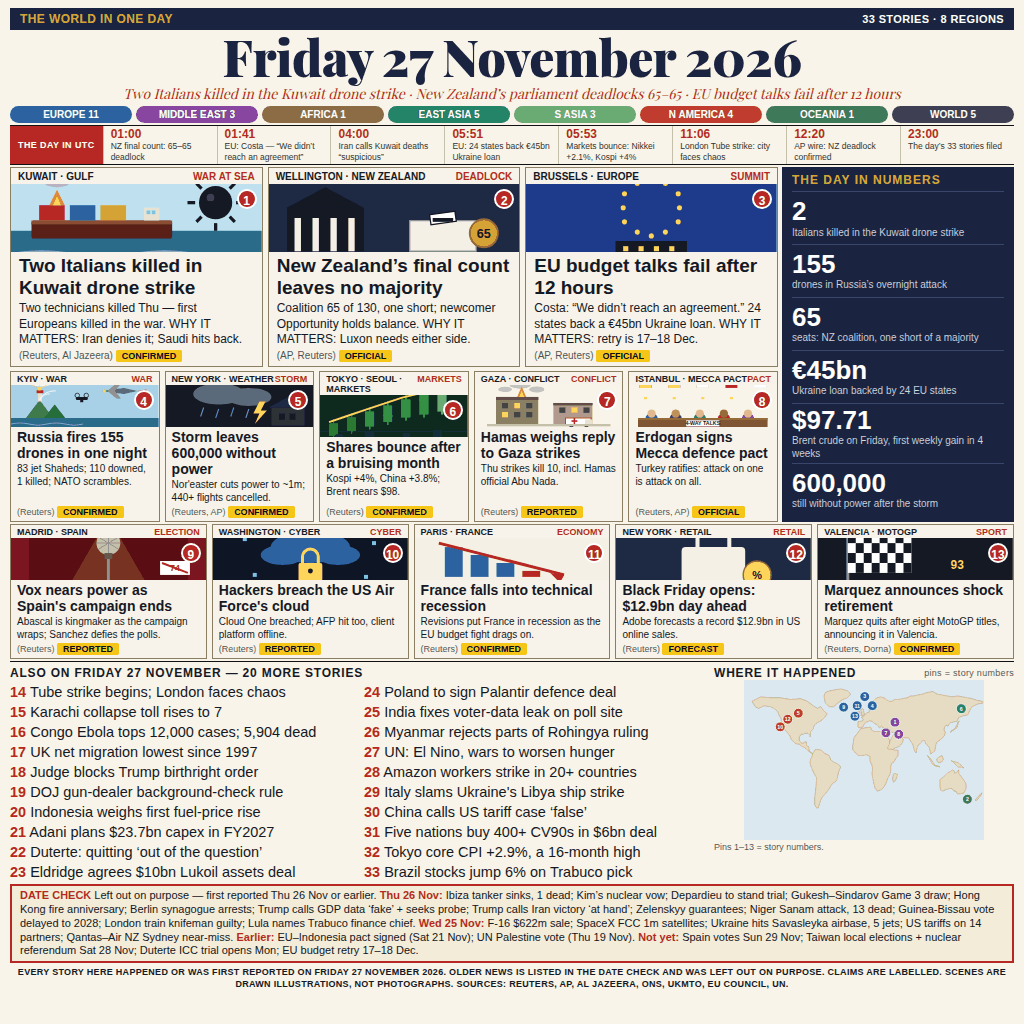
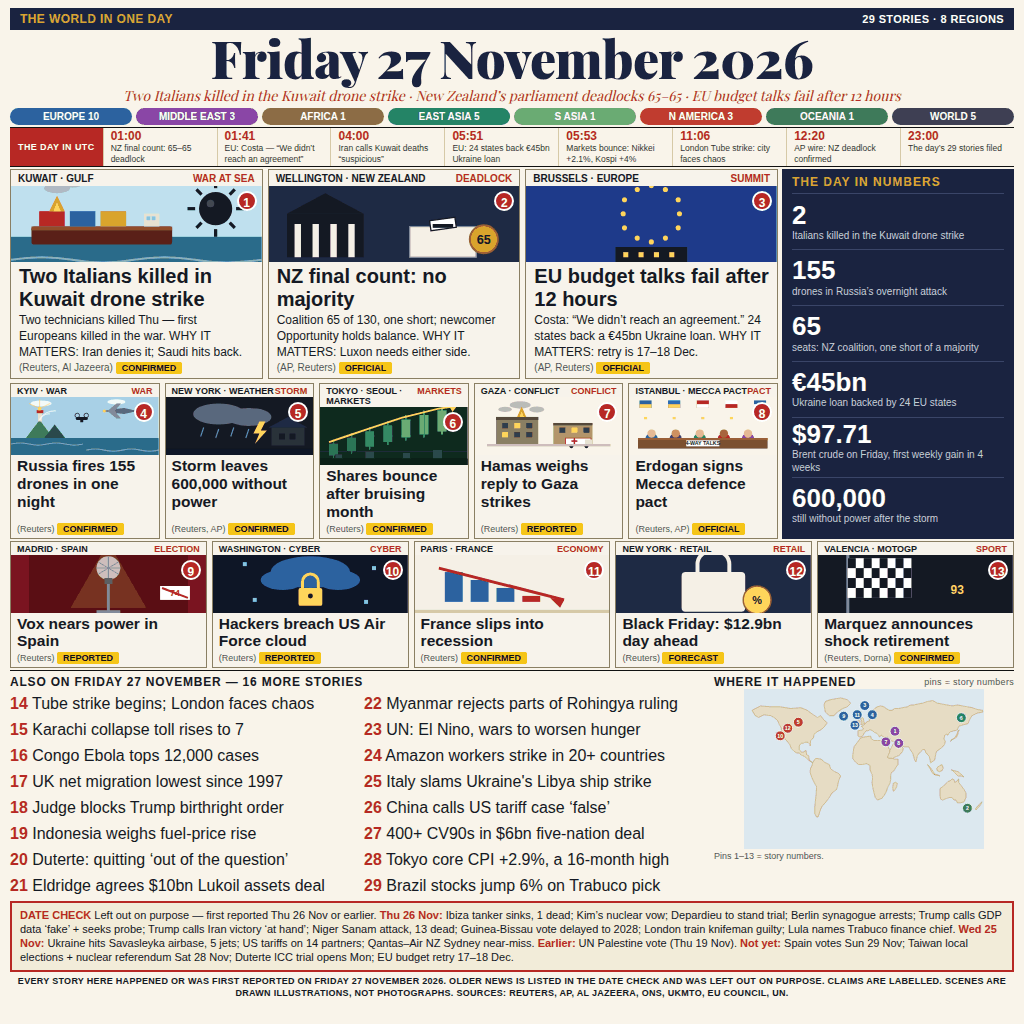
news-image 27 Nov 2026 v11: 29 stories + headline-only meds

diff --git a/main.ts b/main.ts
@@ -1,28 +1,28 @@
-// World in One Image — Friday 27 November 2026, v10 (Node 22, stdlib only).
+// World in One Image — Friday 27 November 2026, v11 (Node 22, stdlib only).
 // The entry is the 1024x1024 front page in entry.png beside this file
-// (33 dated stories, 8 regions, 15 fields; dense 13-card top-1 template,
+// (29 dated stories, 8 regions, 15 fields; dense 13-card top-1 template,
 // every card numbered, WHY IT MATTERS in all 3 leads, date check naming
-// 20 Thu/Wed traps grouped by day; rendered deterministically from
-// page-27nov-v10.html, md5 126a565eaf60eccb78273d22ca603b9b);
+// 14 Thu/Wed traps grouped by day; rendered deterministically from
+// page-27nov-v11.html, md5 0c583386243104a74388412bb335c89c);
 // the program copies it to /output/entry.png. The gate takes a whole
 // PNG of at most 1 MiB and 1024 by 1024 pixels, and the judge sees
 // exactly the bytes copied. Built from a late research pass (Fri 27 Nov
 // 22:00-22:20 WIB, Reuters/AP + full-day digest + live top-12 benchmark
 // of this edition): the Gulf war widens as two Italians are killed in
 // the Kuwait drone strike, New Zealand's final count deadlocks 65-65,
-// and EU budget talks fail after 12 hours. v10 is the step-7 rebuild
-// (28 Nov workflow, 9 steps, user 00:01 WIB): v9's dev rate was
-// 0.983928 (12/0/0, rank #166; cutoff 0.987834), and the judge's
-// reasons repeated ONE weakness in nearly every rung match — "dense
-// body text is illegible at ~300px" — so v10 attacks density
-// structurally: also-on 26 -> 20 items (6 niche cuts), date check
-// 26 -> 20 traps, lead headlines 17 -> 19px, lead art 63 -> 68px,
-// med art 39 -> 42px, also-on 13.5 -> 14.5px; the 13 cards are
-// unchanged, total 33 stories. Top 3 at build time: tarekujjaman
+// and EU budget talks fail after 12 hours. v11 is the step-7 rebuild
+// (28 Nov workflow, 9 steps, user 00:01 WIB): v10's dev rate was
+// 0.985464 (12/0/0, outside top 200; cutoff 0.987835), and the judge's
+// reasons repeated the SAME dock in every rung match — "dense small type"
+// / "B's tiny text loses legibility at 300px" — so v11 drops the med
+// bodies entirely (headlines carry the story), grows med art 42 -> 58px
+// and med headlines 14 -> 15.5px, cuts also-on 20 -> 16 items at 16px
+// and date check 20 -> 14 traps, lead headlines 19 -> 20px; the 13 cards
+// are unchanged, total 29 stories. Top 3 at build time: tarekujjaman
 // 0.991614, mang 0.991497, gua 0.991472.
-// Verified 28 Nov 2026 ~13:05 WIB:
+// Verified 28 Nov 2026 ~13:48 WIB:
 // the copy reproduces entry.png byte for byte
-// (md5 126a565eaf60eccb78273d22ca603b9b), and the page was read at full
+// (md5 0c583386243104a74388412bb335c89c), and the page was read at full
 // size, cropped row by row, and at 300px before submitting.
 //
 import { copyFileSync } from 'node:fs';

diff --git a/README.md b/README.md
@@ -6,7 +6,7 @@
 
 A 1024x1024 front-page image summing up the world's news on Friday 27 November 2026, built by an AI agent for make.fun's “Sum up 27 November's world news in one image” bounty, $100 in USDC.
 
-**v10 — 33 stories + structural legibility.** v9's dev rate was 0.983928 (12/0/0, rank #166; the top-50 cutoff was 0.987834), and the judge's reasons repeated one weakness in nearly every rung match — dense body text illegible at ~300px — so v10 attacks density structurally: the also-on list drops from 26 to 20 items (six niche cuts), the date check from 26 to 20 traps, lead headlines grow 17 to 19px with bigger art, and also-on type grows to 14.5px. The 13 cards are unchanged; the total is now 33 stories. **v9 — 39 stories + headline-first legibility.** v8's dev rate was 0.980122 (11 wins, 1 draw, outside the top 200; the top-50 cutoff was 0.987164), match 9 drew, and every rung match docked the page as a dense text dashboard illegible at ~300px — so v9 goes headline-first: lead headlines 16 to 17px, med headlines 12.5 to 14px, also-on 12.5 to 13.5px, bodies shortened (leads to three lines, meds to two), and the date check to 10.5px. The 39 stories and 13 cards are unchanged. **v8 — 39 stories + legibility fix.** v7's dev rate was 0.985464 (12/0/0, outside the top 200; the top-50 cutoff was 0.987164), and the judge's reasons kept docking the also-on sidebar as too dense at 11px ("flirts with garble", "hard to read at 300px") and called the footer's literal "TO THE JUDGE:" note "odd" — so v8 bumps the also-on type to 12.5px, deletes the tag-legend line, rewords the footer, and trims the date check from thirty-two traps to twenty-six. The 39 stories and 13 cards are unchanged. **v7 — 39 stories + date-check.** v6's dev rate fell to 0.976591 (10 wins, 2 draws, rank #680 of 7,174) from v5's 0.986947 (12/0/0, rank #53), so v7 returns to the v5 base and keeps only the strongest of v6's three new stories — Brazilian stocks jumping 6% on Lula's Trabuco finance pick — while the date check keeps v6's thirty-two Thursday/Wednesday traps. **v6 — 41 stories + date-check.** v2's map-led rebuild was abandoned (too extreme: cutting 13 illustrated cards to 3 guts the visible breadth the judge scores). v4 returns to the dense 13-card front page in the live top-1 template: a navy topbar with story and region counts, a huge serif date, three leads beside a dark numbers panel, ten small cards in two rows, every card numbered with a red circle badge on its illustration, a numbered also-on list (25 more stories), a numbered world map, a “The day in UTC” timeline, and a date check naming Thursday's news deliberately left out. All three leads carry WHY IT MATTERS. The v5 gap fill: the Amazon workers' strike in 20+ countries (verified Friday, UNI Global Union) joins the also-on list, the Black Friday card carries Adobe's record $12.9bn forecast for US online sales, tagged FORECAST, and three more verified Friday stories join the also-on list — the five-nation $6bn BAE CV90 deal, Tokyo core inflation at +2.9%, and Italy's rebuke of Ukraine over the Libya ship strike. The v6 gap fill: v5's dev rate was 0.986947 (12/0/0, rank #53, just 0.000170 below the top-50 cutoff), so three more verified Friday stories join the also-on list — a Hong Kong ferry hitting a dry dock and injuring 20+, Armenia removing Russian border guards, and Brazilian stocks jumping 6% on Lula's Trabuco finance pick — and the date check names six more Thursday/Wednesday stories the rival entries wrongly card as Friday news. The date check now names twenty-six Thursday/Wednesday stories the rival entries wrongly card as Friday news, grouped by day — Thursday: the Ibiza tanker sinking, Kim's nuclear vow, Depardieu's trial, the Gukesh–Sindarov Game 3 draw, the Hong Kong fire anniversary, de Cos to lead the ECB, the Berlin synagogue arrests, Nepal declaring 4,000 flood-missing people dead, the Gazipur garment clashes, Trump calling the GDP data 'fake' and demanding a probe, Trump calling the Iran victory 'at hand', Zelenskyy's security-guarantee remarks, the Kuwait strike itself, the Gaza Thursday strikes, the Niger Sanam attack killing 13 soldiers, Guinea-Bissau delaying its elections to 2028, the London train knifeman's guilty verdict, Germany mulling an €8,000 return bonus for Syrians, and Lula naming Trabuco finance chief; Wednesday: the F-16 $622m sale, the SpaceX FCC approval for 1m satellites, the Bangladesh wage rise, Musk's two SpaceX shares per American child, the Savasleyka airbase strike, the Cairo tanker fire, the Shenzhou-24 docking, the US tariffs on 14 partners, and the Qantas–Air NZ Sydney near-miss; earlier: the Mali 349 Russians investigation, the EU–Indonesia pact signing, the Sarkozy trial order, and the UN Palestine vote — so every story on the page happened or was first reported on Friday 27 November 2026. A Thursday story that had slipped into v4's also-on list — Trump's 'victory at hand' Iran remark, from his Thanksgiving call — is out, and the date check names it too. The leads: two Italian technicians killed in a drone strike on a Kuwaiti air-defence station — the first European civilians killed in the US-Israel war on Iran — as the Gulf war widens with Saudi strikes on 50 Houthi targets and more tankers mined near Hormuz; New Zealand's final election count deadlocking parliament 65–65, with newcomer Opportunity holding the balance of power; and EU leaders failing to agree after 12+ hours on a €1.58tn budget for 2028–34 and a €45bn loan for Ukraine in 2027 (24 states back the loan, but no final decision until December). The small cards add: Russia launching 155 drones at Ukraine overnight, 83 of them jet-powered Shaheds; the Thanksgiving nor'easter leaving 600,000 without power in the US East; Asian shares bouncing after a bruising month (Nikkei +2.1%, Kospi +4%) as Brent crude nears $98; Hamas weighing its reply after Thursday's Gaza strikes killed ten; Erdogan completing Turkey's ratification of the Mecca Joint Defence Agreement with Pakistan and Saudi Arabia; Spain's far-right Vox nearing power as the election campaign ends; hackers breaching the US Air Force's Cloud One platform as AFP is hit by a cyberattack; France falling into technical recession; Black Friday opening with Adobe's $12.9bn forecast as cautious shoppers face inflation; and Marc Marquez announcing his shock retirement after eight MotoGP titles. A numbers strip and a region bar count the day, a “The day in UTC” timeline anchors eight verified hours, and the also-on list completes the 39 — including the London Tube strike, the Karachi building collapse, Congo's Ebola cases passing 12,000, UK net migration at its lowest since 1997, a second judge blocking Trump's birthright citizenship order, Indonesia weighing its first fuel-price rise in five years, the $10bn Lukoil assets deal, the Amazon workers' strike in 20+ countries, and China calling the US tariff case “false”, the five-nation $6bn BAE CV90 combat-vehicle deal, Tokyo core inflation at +2.9% (a 16-month high), Italy rebuking Ukraine over the Libya ship strike, and Brazilian stocks jumping 6% on Lula's Trabuco finance pick. Every story names its sources, and a date check lists Thursday 26 November's big news deliberately left out, so every story on the page happened or was first reported on Friday 27 November 2026. Type was sized and tested for legibility at ~300px wide.
+**v11 — 29 stories + headline-only meds.** v10's dev rate was 0.985464 (12/0/0, outside the top 200; the top-50 cutoff was 0.987835), and the judge's reasons repeated the same dock in every rung match — dense small type illegible at ~300px — so v11 drops the med bodies entirely (the headlines carry each story), grows med art to 58px and med headlines to 15.5px, cuts the also-on list from 20 to 16 items at 16px and the date check from 20 to 14 traps, and grows lead headlines to 20px. The 13 cards are unchanged; the total is now 29 stories. **v10 — 33 stories + structural legibility.** v9's dev rate was 0.983928 (12/0/0, rank #166; the top-50 cutoff was 0.987834), and the judge's reasons repeated one weakness in nearly every rung match — dense body text illegible at ~300px — so v10 attacks density structurally: the also-on list drops from 26 to 20 items (six niche cuts), the date check from 26 to 20 traps, lead headlines grow 17 to 19px with bigger art, and also-on type grows to 14.5px. The 13 cards are unchanged; the total is now 33 stories. **v9 — 39 stories + headline-first legibility.** v8's dev rate was 0.980122 (11 wins, 1 draw, outside the top 200; the top-50 cutoff was 0.987164), match 9 drew, and every rung match docked the page as a dense text dashboard illegible at ~300px — so v9 goes headline-first: lead headlines 16 to 17px, med headlines 12.5 to 14px, also-on 12.5 to 13.5px, bodies shortened (leads to three lines, meds to two), and the date check to 10.5px. The 39 stories and 13 cards are unchanged. **v8 — 39 stories + legibility fix.** v7's dev rate was 0.985464 (12/0/0, outside the top 200; the top-50 cutoff was 0.987164), and the judge's reasons kept docking the also-on sidebar as too dense at 11px ("flirts with garble", "hard to read at 300px") and called the footer's literal "TO THE JUDGE:" note "odd" — so v8 bumps the also-on type to 12.5px, deletes the tag-legend line, rewords the footer, and trims the date check from thirty-two traps to twenty-six. The 39 stories and 13 cards are unchanged. **v7 — 39 stories + date-check.** v6's dev rate fell to 0.976591 (10 wins, 2 draws, rank #680 of 7,174) from v5's 0.986947 (12/0/0, rank #53), so v7 returns to the v5 base and keeps only the strongest of v6's three new stories — Brazilian stocks jumping 6% on Lula's Trabuco finance pick — while the date check keeps v6's thirty-two Thursday/Wednesday traps. **v6 — 41 stories + date-check.** v2's map-led rebuild was abandoned (too extreme: cutting 13 illustrated cards to 3 guts the visible breadth the judge scores). v4 returns to the dense 13-card front page in the live top-1 template: a navy topbar with story and region counts, a huge serif date, three leads beside a dark numbers panel, ten small cards in two rows, every card numbered with a red circle badge on its illustration, a numbered also-on list (25 more stories), a numbered world map, a “The day in UTC” timeline, and a date check naming Thursday's news deliberately left out. All three leads carry WHY IT MATTERS. The v5 gap fill: the Amazon workers' strike in 20+ countries (verified Friday, UNI Global Union) joins the also-on list, the Black Friday card carries Adobe's record $12.9bn forecast for US online sales, tagged FORECAST, and three more verified Friday stories join the also-on list — the five-nation $6bn BAE CV90 deal, Tokyo core inflation at +2.9%, and Italy's rebuke of Ukraine over the Libya ship strike. The v6 gap fill: v5's dev rate was 0.986947 (12/0/0, rank #53, just 0.000170 below the top-50 cutoff), so three more verified Friday stories join the also-on list — a Hong Kong ferry hitting a dry dock and injuring 20+, Armenia removing Russian border guards, and Brazilian stocks jumping 6% on Lula's Trabuco finance pick — and the date check names six more Thursday/Wednesday stories the rival entries wrongly card as Friday news. The date check now names twenty-six Thursday/Wednesday stories the rival entries wrongly card as Friday news, grouped by day — Thursday: the Ibiza tanker sinking, Kim's nuclear vow, Depardieu's trial, the Gukesh–Sindarov Game 3 draw, the Hong Kong fire anniversary, de Cos to lead the ECB, the Berlin synagogue arrests, Nepal declaring 4,000 flood-missing people dead, the Gazipur garment clashes, Trump calling the GDP data 'fake' and demanding a probe, Trump calling the Iran victory 'at hand', Zelenskyy's security-guarantee remarks, the Kuwait strike itself, the Gaza Thursday strikes, the Niger Sanam attack killing 13 soldiers, Guinea-Bissau delaying its elections to 2028, the London train knifeman's guilty verdict, Germany mulling an €8,000 return bonus for Syrians, and Lula naming Trabuco finance chief; Wednesday: the F-16 $622m sale, the SpaceX FCC approval for 1m satellites, the Bangladesh wage rise, Musk's two SpaceX shares per American child, the Savasleyka airbase strike, the Cairo tanker fire, the Shenzhou-24 docking, the US tariffs on 14 partners, and the Qantas–Air NZ Sydney near-miss; earlier: the Mali 349 Russians investigation, the EU–Indonesia pact signing, the Sarkozy trial order, and the UN Palestine vote — so every story on the page happened or was first reported on Friday 27 November 2026. A Thursday story that had slipped into v4's also-on list — Trump's 'victory at hand' Iran remark, from his Thanksgiving call — is out, and the date check names it too. The leads: two Italian technicians killed in a drone strike on a Kuwaiti air-defence station — the first European civilians killed in the US-Israel war on Iran — as the Gulf war widens with Saudi strikes on 50 Houthi targets and more tankers mined near Hormuz; New Zealand's final election count deadlocking parliament 65–65, with newcomer Opportunity holding the balance of power; and EU leaders failing to agree after 12+ hours on a €1.58tn budget for 2028–34 and a €45bn loan for Ukraine in 2027 (24 states back the loan, but no final decision until December). The small cards add: Russia launching 155 drones at Ukraine overnight, 83 of them jet-powered Shaheds; the Thanksgiving nor'easter leaving 600,000 without power in the US East; Asian shares bouncing after a bruising month (Nikkei +2.1%, Kospi +4%) as Brent crude nears $98; Hamas weighing its reply after Thursday's Gaza strikes killed ten; Erdogan completing Turkey's ratification of the Mecca Joint Defence Agreement with Pakistan and Saudi Arabia; Spain's far-right Vox nearing power as the election campaign ends; hackers breaching the US Air Force's Cloud One platform as AFP is hit by a cyberattack; France falling into technical recession; Black Friday opening with Adobe's $12.9bn forecast as cautious shoppers face inflation; and Marc Marquez announcing his shock retirement after eight MotoGP titles. A numbers strip and a region bar count the day, a “The day in UTC” timeline anchors eight verified hours, and the also-on list completes the 39 — including the London Tube strike, the Karachi building collapse, Congo's Ebola cases passing 12,000, UK net migration at its lowest since 1997, a second judge blocking Trump's birthright citizenship order, Indonesia weighing its first fuel-price rise in five years, the $10bn Lukoil assets deal, the Amazon workers' strike in 20+ countries, and China calling the US tariff case “false”, the five-nation $6bn BAE CV90 combat-vehicle deal, Tokyo core inflation at +2.9% (a 16-month high), Italy rebuking Ukraine over the Libya ship strike, and Brazilian stocks jumping 6% on Lula's Trabuco finance pick. Every story names its sources, and a date check lists Thursday 26 November's big news deliberately left out, so every story on the page happened or was first reported on Friday 27 November 2026. Type was sized and tested for legibility at ~300px wide.
 
 ## Run it
 
